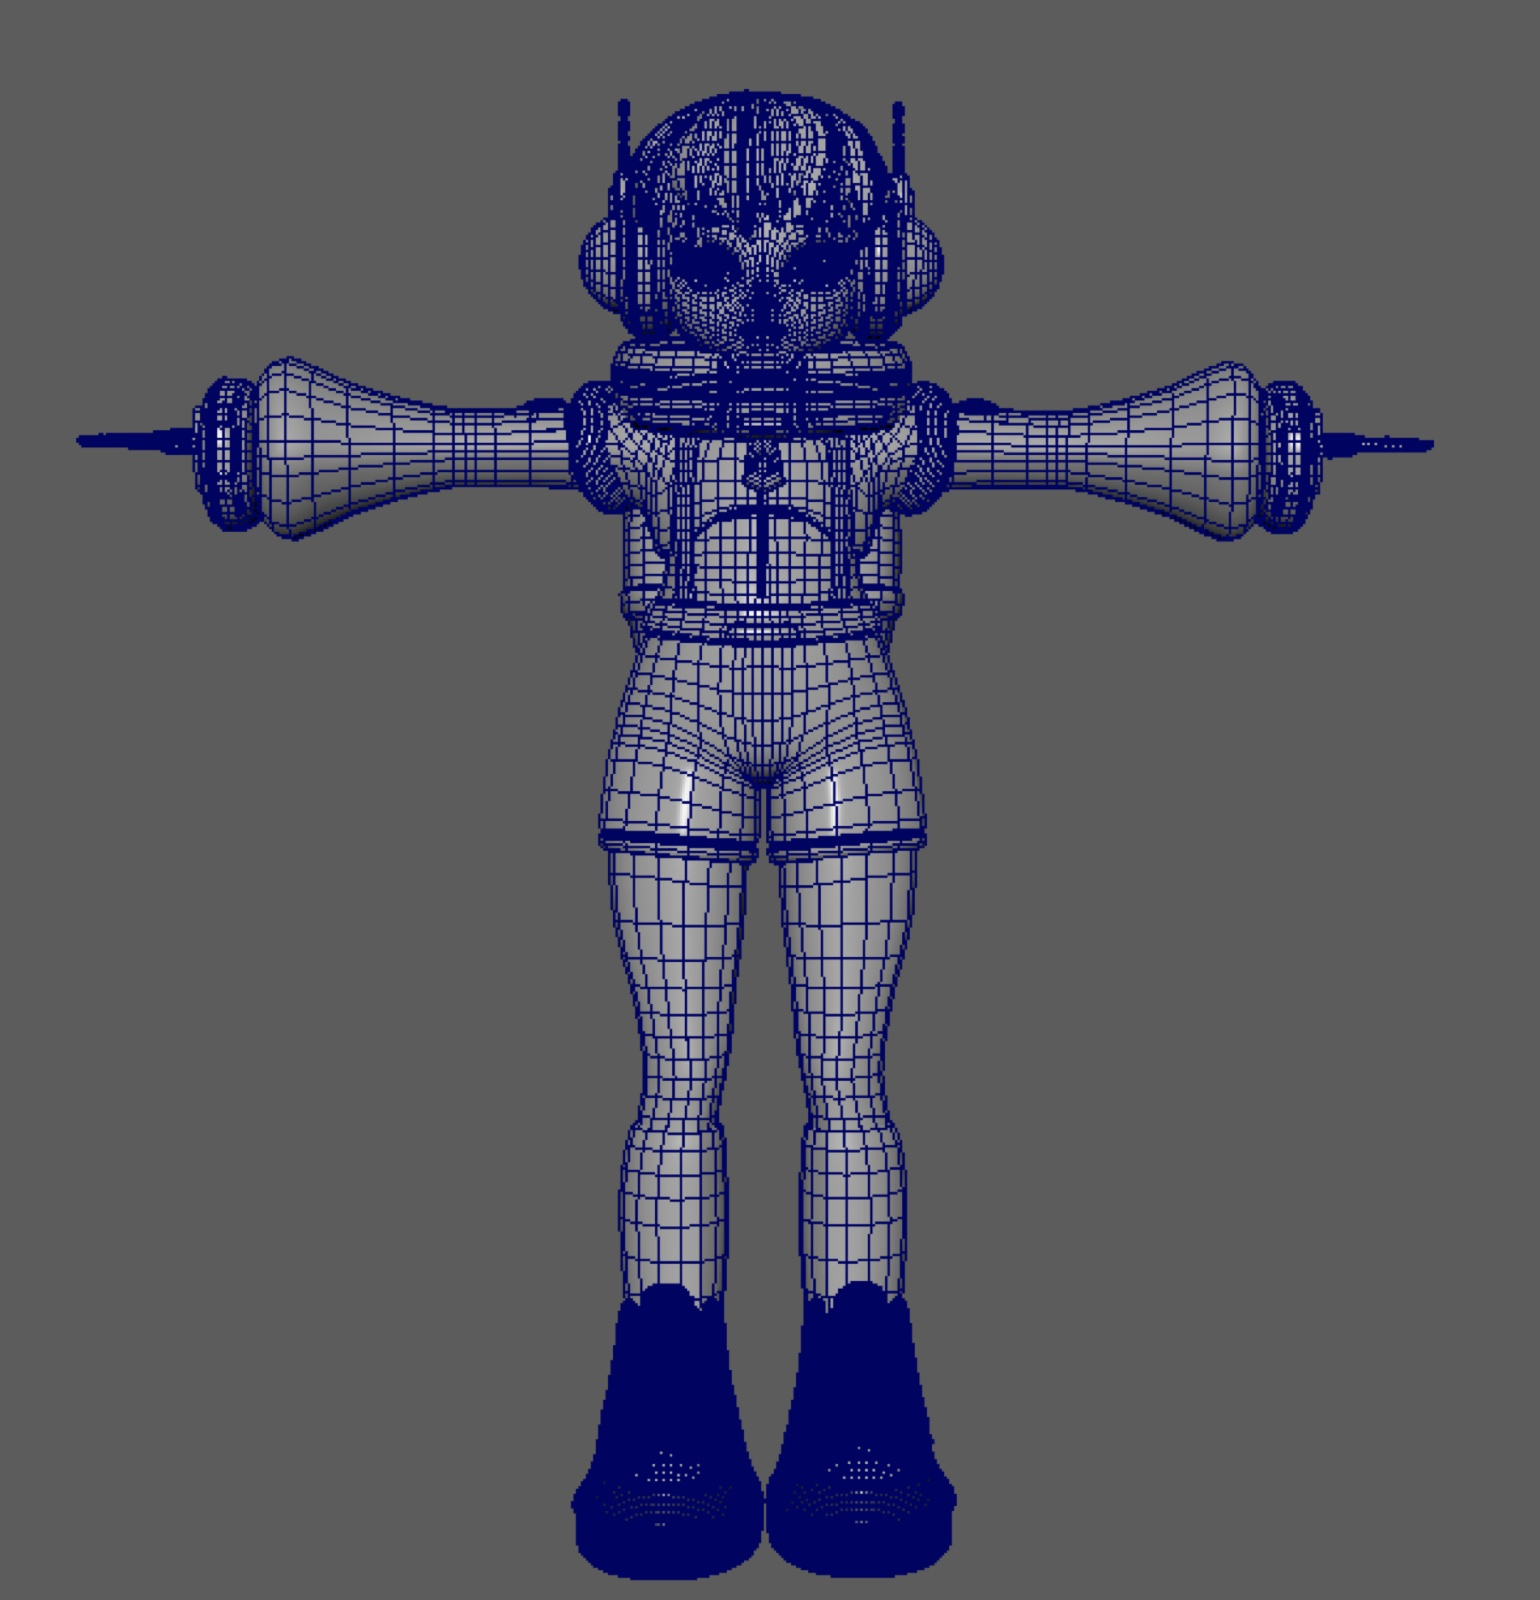
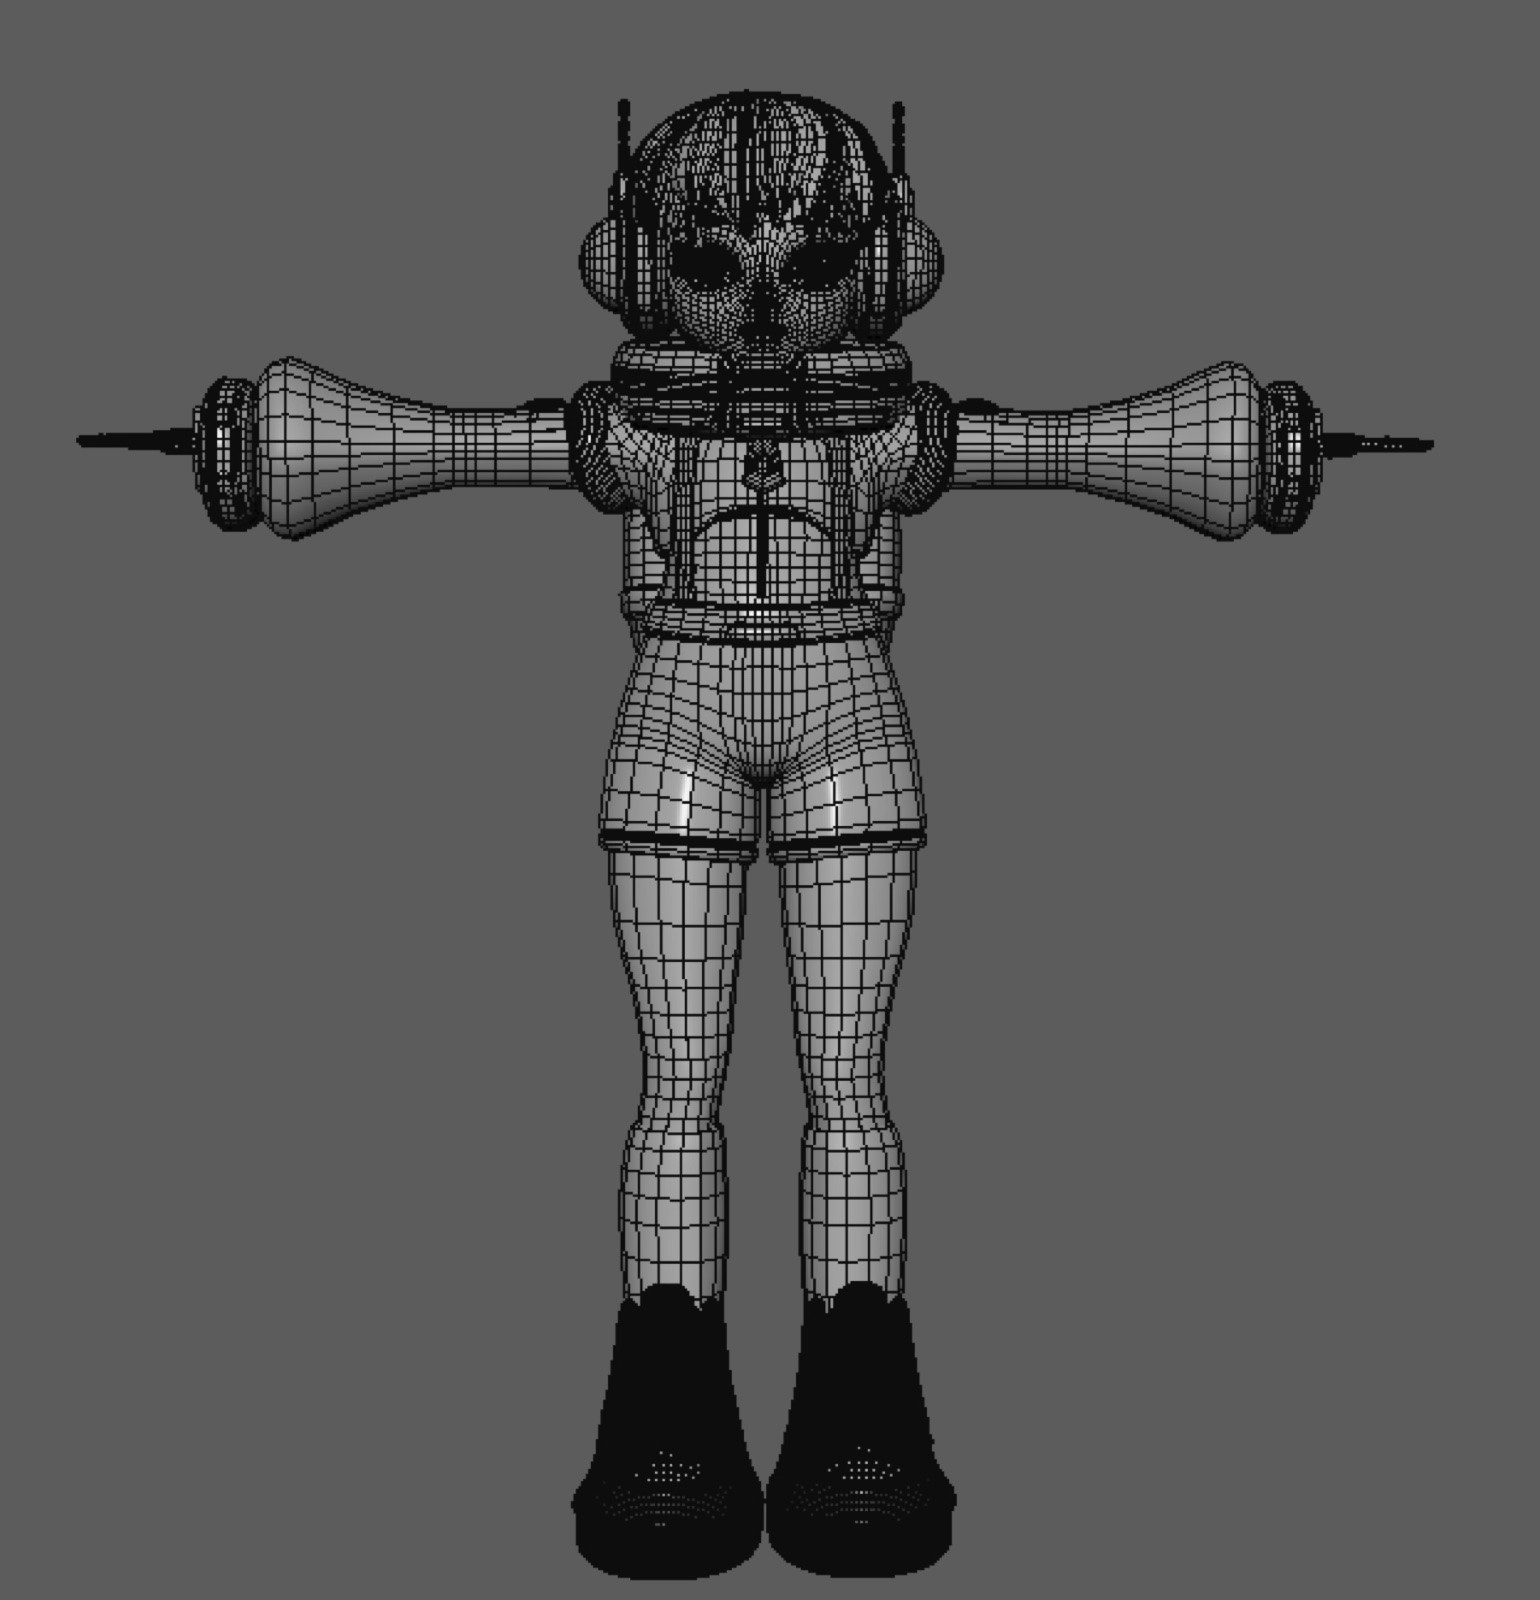
Convert 3D wireframe screens to grayscale

Changed region(s): [[0.0312, 0.0312, 0.9351, 1.0]]

diff --git a/index.html b/index.html
@@ -567,7 +567,7 @@ const PROJECTS = {
     links:[{label:'Watch',cls:'yt',url:'https://youtu.be/ZcVD7h4LhxQ'}],
     video:'https://www.youtube.com/embed/ZcVD7h4LhxQ?rel=0',
     extraVideos:['mx03a1LzNX0','hMSISc33rzo'],
-    images:['assets/img/maya/maya-01.jpg','assets/img/maya/maya-02.jpg','assets/img/maya/maya-03.jpg','assets/img/maya/maya-04.jpg','assets/img/maya/maya-05.jpg','assets/img/maya/maya-06.jpg']},
+    images:['assets/img/maya/maya-01.jpg','assets/img/maya/maya-02.jpg?v=2','assets/img/maya/maya-03.jpg?v=2','assets/img/maya/maya-04.jpg','assets/img/maya/maya-05.jpg','assets/img/maya/maya-06.jpg']},
   illustPaint:{title:'반실사',cat:'Illustration · Digital Painting',
     desc:'반실사 톤의 캐릭터 페인팅과 컨셉 일러스트 모음.',
     descEn:'Semi-realistic character paintings and concept illustrations.',
